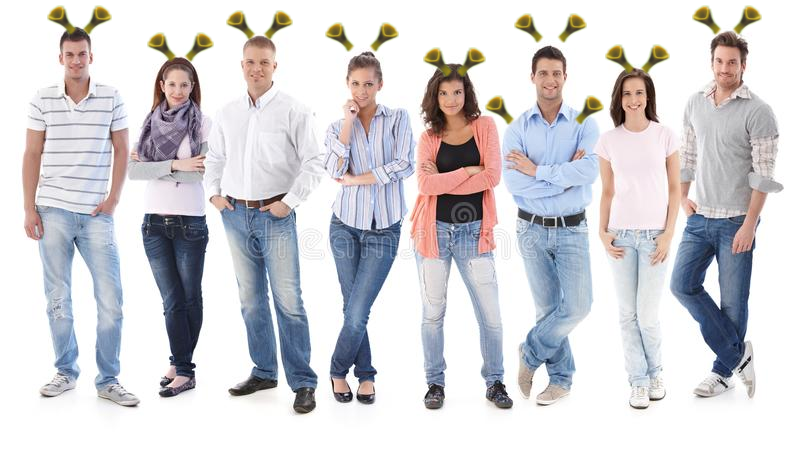
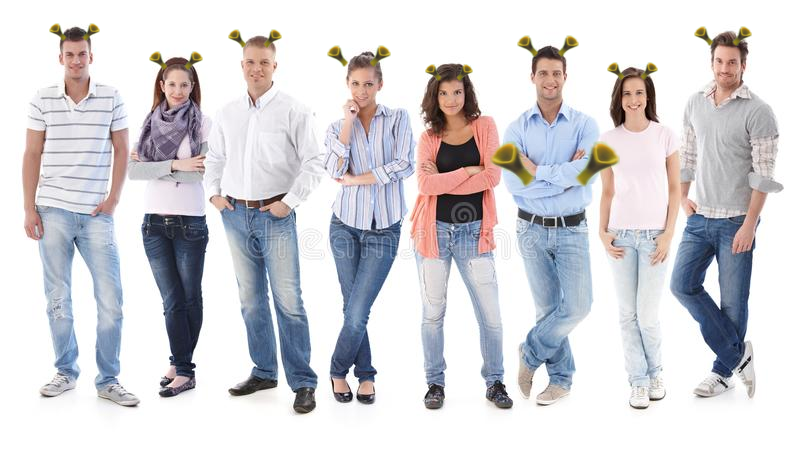
refactor(image processing): resolved pr comments

diff --git a/ImageProcessing/ears_drawing.py b/ImageProcessing/ears_drawing.py
@@ -1,16 +1,23 @@
 from PIL import Image, ImageOps
 from Resources.Paths import shrek_ear, output_path
+from Resources import Constants
 
 
 def draw_ears(faces, image_path):
     photo = Image.open(image_path)
     ear = Image.open(shrek_ear)
-    right_ear = ear.resize((30, 30))
-    left_ear = ImageOps.mirror(right_ear)
 
     for (x, y, w, h) in faces:
-        photo.paste(right_ear, (int(x + w * 2 / 3), y - h), right_ear)
-        photo.paste(left_ear, (int(x - w * 3 / 10), y - h), left_ear)
+        right_ear = ear.resize((round(w / Constants.heigth_divider), round(h / Constants.heigth_divider)))
+        left_ear = ImageOps.mirror(right_ear)
+        photo.paste(right_ear,
+                    (int(x + w * Constants.right_width_multiplier),
+                     y - round(h / Constants.heigth_divider)),
+                    right_ear)
+        photo.paste(left_ear,
+                    (int(x - w * Constants.left_width_multiplier),
+                     y - round(h / Constants.heigth_divider)),
+                    left_ear)
 
     photo.save(output_path)
 

diff --git a/Resources/Constants.py b/Resources/Constants.py
@@ -1,0 +1,5 @@
+
+
+right_width_multiplier = 2 / 3
+left_width_multiplier = 3 / 12
+heigth_divider = 2
